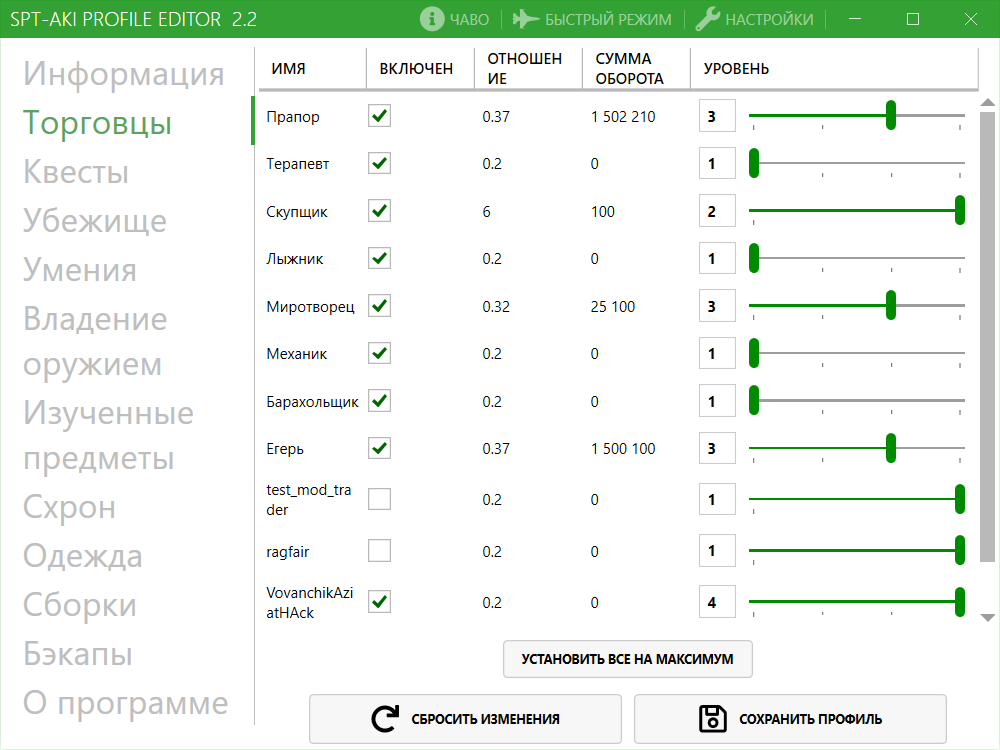
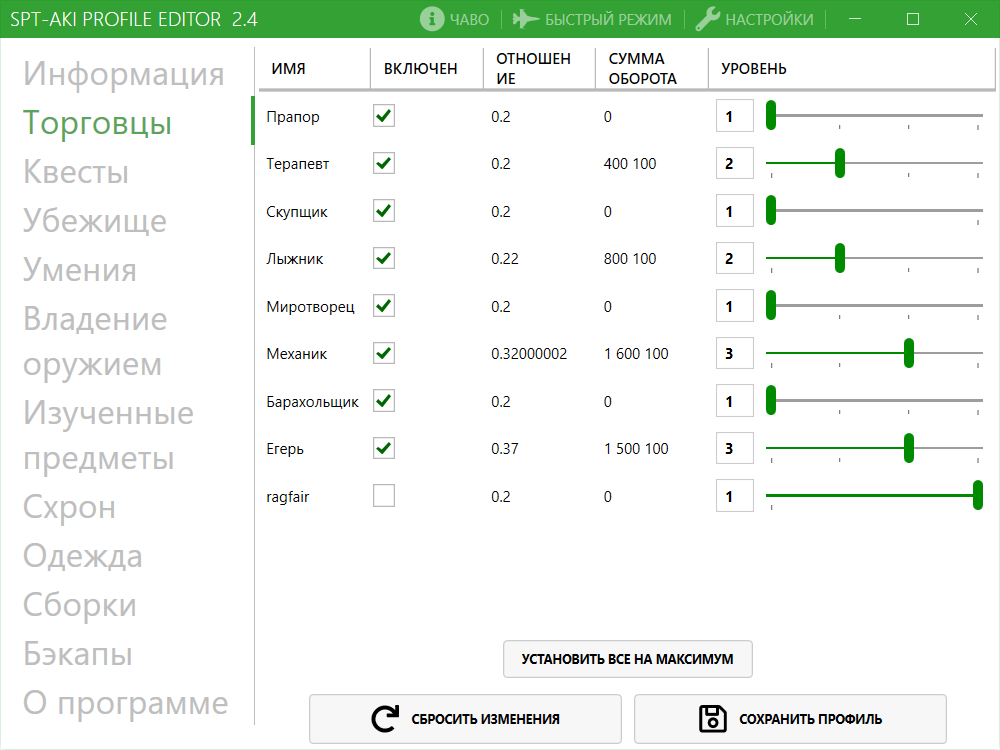
prepare for 2.4

diff --git a/FAQ.md b/FAQ.md
@@ -27,6 +27,7 @@
   },
 ```
 #### UPD for SPT-AKI 3.0.0: [Редактор профиля не работает с версией 3.0.0?](https://youtu.be/XO2r4dG_kpk)
+#### UPD: Начиная с версии 2.4 программа показывает диалог, со списком файлов\папок которые не удалось обнаружить в выбранный папке. При необходимости можно отредактировать относительные пути в этом диалоге.
 </br></br>
 
 ### В окне "Добавление предметов" отсутствуют некоторые предметы
@@ -74,3 +75,4 @@ AppSettings.json - настройки приложения</br>
 
 ### Названия предметов, квестов, скиллов и т.д. не соответствуют названиям в игре
 В игре выбран язык не соответствующий выбранной локализации в редакторе профиля. Если необходимая локализация отсутствует, можно создать нужную, используя в качестве основы Английскую локализацию: [(Редактирование \ создание файлов локализации)](/Guidelines/LocalizationsRu.md)
+#### UPD: Начиная с версии 2.4 создать новую локализацию можно в настройках, нажав на кнопку "+" рядом с выбранным языком.

diff --git a/ENGFAQ.md b/ENGFAQ.md
@@ -28,6 +28,7 @@ An example of the DirsList and FilesList sections in the [AppSettings.json](ENGF
   },
 ```
 #### UPD for SPT-AKI 3.0.0: [Profile Editor does not work with version 3.0.0?](https://youtu.be/XO2r4dG_kpk)
+#### UPD: Starting from version 2.4 the program a dialog with a list of files\folders that could not be found in the selected folder. If necessary, you can edit the relative paths in this dialog.
 </br></br>
 
 ### Some items are missing in the "Adding items" window
@@ -75,3 +76,4 @@ Turn on "Adding missing Scav skills to the profile \ Adding missing weapon maste
 
 ### Names of items, quests, skills, etc. do not match the names in the game
 The language selected in the game does not match to the selected localization in the profile editor. If the required localization is missing, you can create the necessary one, using the English localization as a basis: [(Editing \ creating localization files)](/Guidelines/LocalizationsENG.md)
+#### UPD: Starting from version 2.4, you can create a new localization in the settings by clicking on the "+" button next to the selected language.

diff --git a/Guidelines/LocalizationsRu.md b/Guidelines/LocalizationsRu.md
@@ -1,6 +1,8 @@
 ### Редактирование \ создание файлов локализации:
 [ENG version](/Guidelines/LocalizationsENG.md)
 
+#### UPD: Начиная с версии 2.4 создать и редактировать локализации можно в настройках.
+
 Файлы локализации генерируются в папке [Localizations](/FAQ.md#где-найти-файл-appsettingsjson-логи-локализации-и-бэкапы-сделанные-программой) при первом запуске приложения.
 Файлы можно редактировать, и создавать новые.
 При запуске приложения они будут загружены, и отображены в соответствующем поле диалога настроек.

diff --git a/README.md b/README.md
@@ -13,6 +13,7 @@
 
 ### [Отправить баг репорт](https://github.com/SkiTles55/SPT-AKI-Profile-Editor/issues/new/choose)
 
+### [Версия 2.4 для сервера SPT-AKI 3.2.0](https://github.com/SkiTles55/SPT-AKI-Profile-Editor/releases/tag/2.4)
 ### [Версия 2.3.1 для сервера SPT-AKI 3.0.0 - 3.1.1](https://github.com/SkiTles55/SPT-AKI-Profile-Editor/releases/tag/2.3.1)
 ### [Версия 2.3 для сервера SPT-AKI 2.2.0 - 2.3.1](https://github.com/SkiTles55/SPT-AKI-Profile-Editor/releases/tag/2.3)
 ### [Редактор профиля не работает с версией 3.0.0?](https://youtu.be/XO2r4dG_kpk)

diff --git a/Guidelines/LocalizationsENG.md b/Guidelines/LocalizationsENG.md
@@ -1,6 +1,8 @@
 ### Editing \ creating localization files:
 [RU version](/Guidelines/LocalizationsRu.md)
 
+#### UPD: Starting from version 2.4, you can create and edit localizations in the settings.
+
 Localization files are generated in the [Localizations](/ENGFAQ.md#where-can-i-find-the-appsettingsjson-file-logs-localizations-and-backups-maded-by-application) folder when the application is first launched.
 Files can be edited and new ones created.
 When the application starts, they will be loaded and displayed in the corresponding field of the settings dialog.

diff --git a/ENGREADME.md b/ENGREADME.md
@@ -13,6 +13,7 @@
 
 ### [Submit a bug report](https://github.com/SkiTles55/SPT-AKI-Profile-Editor/issues/new/choose)
 
+### [Version 2.4 for server SPT-AKI 3.2.0](https://github.com/SkiTles55/SPT-AKI-Profile-Editor/releases/tag/2.4)
 ### [Version 2.3.1 for server SPT-AKI 3.0.0 - 3.1.1](https://github.com/SkiTles55/SPT-AKI-Profile-Editor/releases/tag/2.3.1)
 ### [Version 2.3 for server SPT-AKI 2.2.0 - 2.3.1](https://github.com/SkiTles55/SPT-AKI-Profile-Editor/releases/tag/2.3)
 ### [Profile Editor does not work with version 3.0.0?](https://youtu.be/XO2r4dG_kpk)
